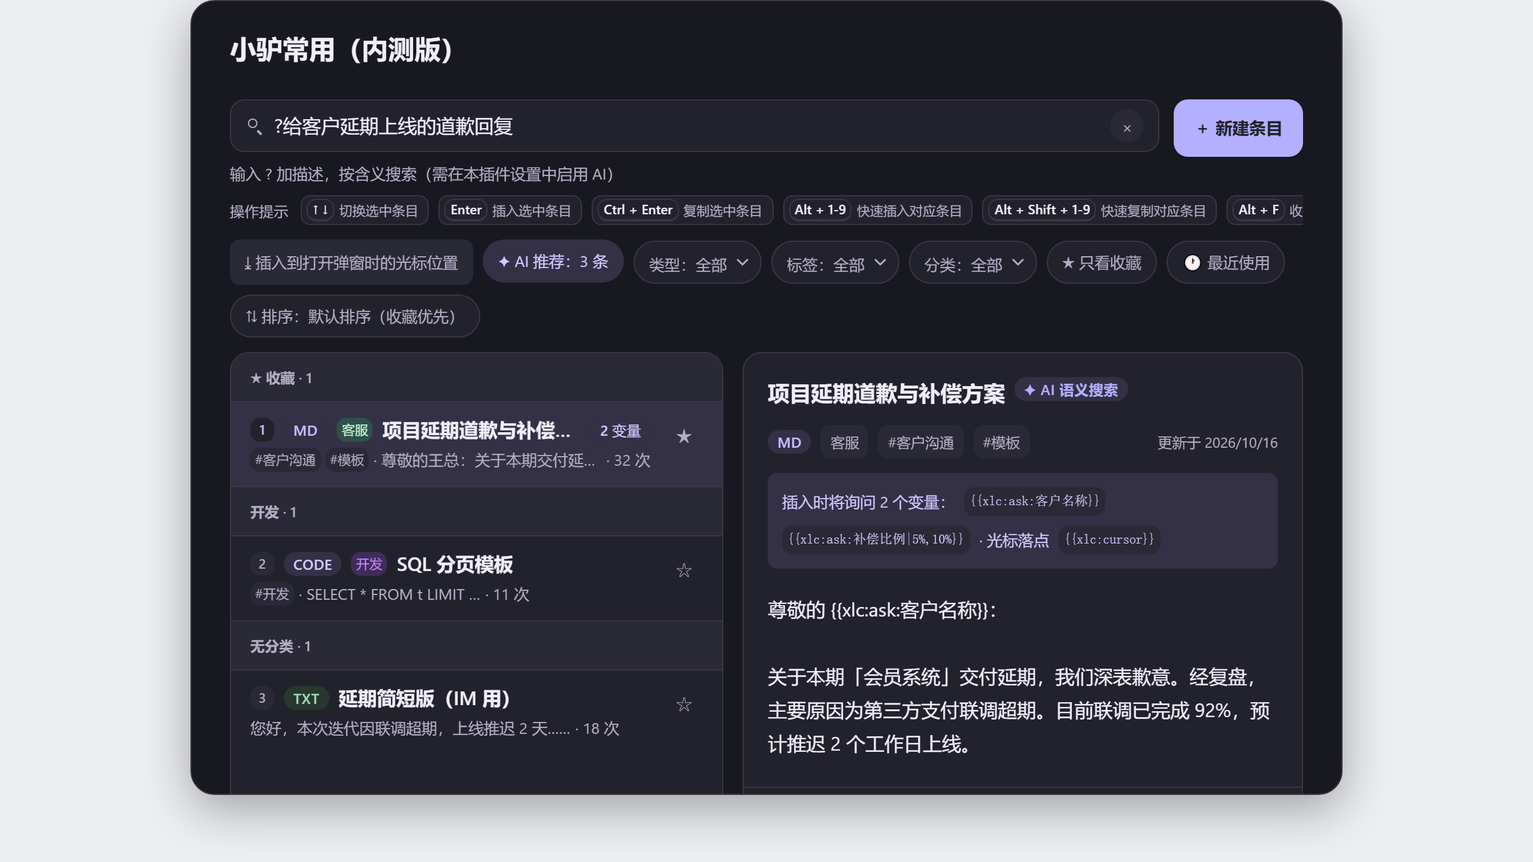
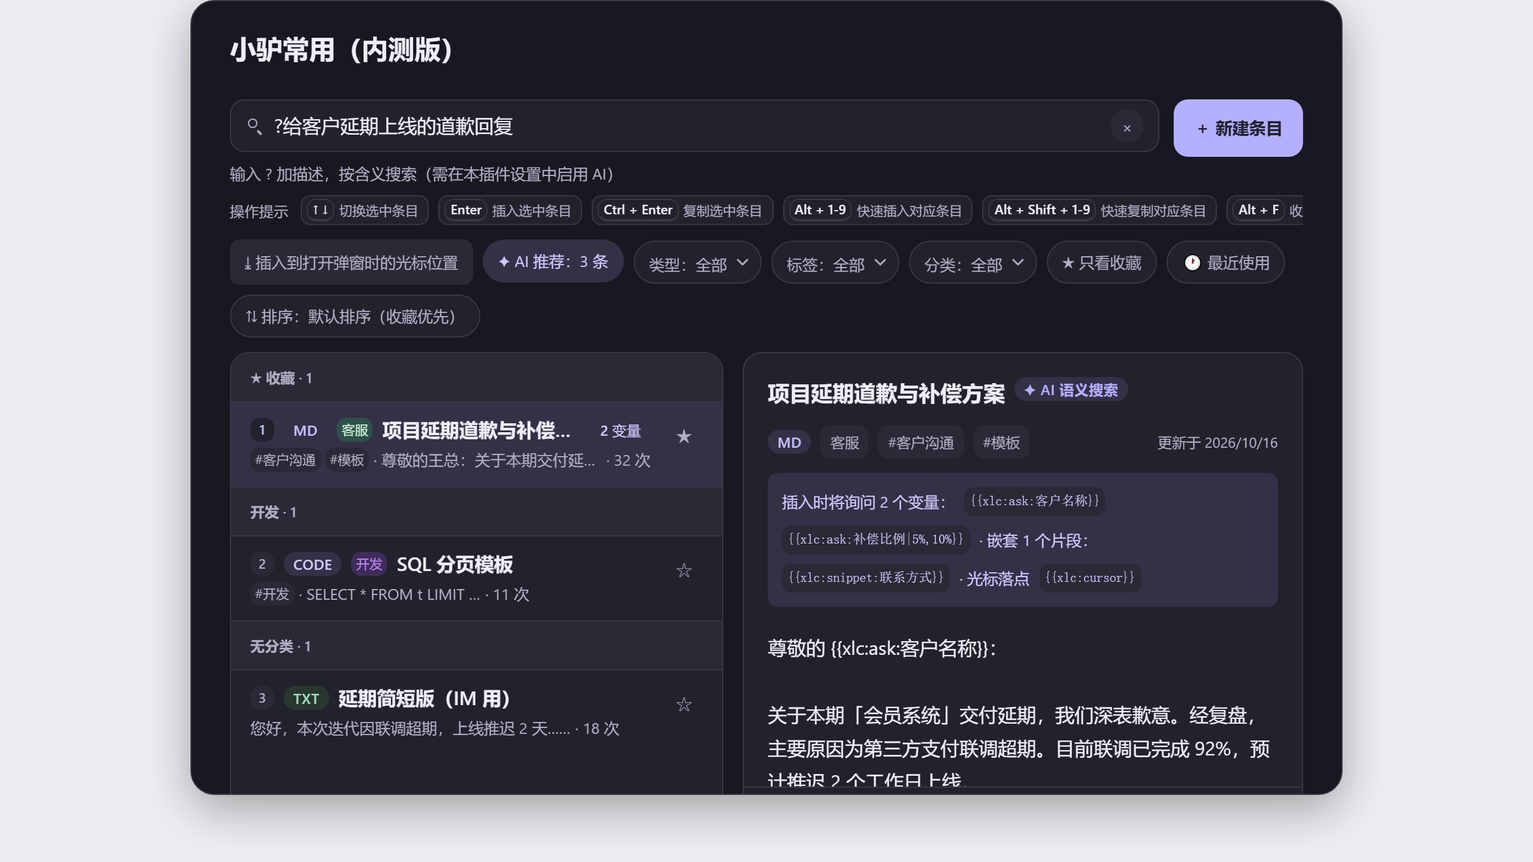
feat(ui): render nested snippet chips in preview pane vars bar (T-0109)

Changed region(s): [[0.5, 0.5938, 0.8438, 0.9062]]

diff --git a/docs/design/harness-bundle.js b/docs/design/harness-bundle.js
@@ -3371,6 +3371,20 @@ ${exception.mark.snippet}`;
   function hasCursorToken(text) {
     return text.includes(CURSOR_TOKEN);
   }
+  function listSnippetRefs(text) {
+    var _a;
+    if (!text || !text.includes("{{xlc:snippet:")) return [];
+    const titles = [];
+    const seen = /* @__PURE__ */ new Set();
+    for (const match of text.matchAll(SNIPPET_PATTERN)) {
+      const title = ((_a = match[1]) != null ? _a : "").trim().slice(0, LIMITS.title);
+      if (!title || seen.has(title)) continue;
+      seen.add(title);
+      titles.push(title);
+      if (titles.length >= 16) break;
+    }
+    return titles;
+  }
 
   // src/ui/variable-form.ts
   var import_siyuan = __toESM(require_stub_dom());
@@ -5282,15 +5296,17 @@ ${exception.mark.snippet}`;
     schedulePreview(entry) {
       this.updatePreview(entry.id);
     }
-    /** 变量提示行：从预览文本解析 ask 字段与光标标记并列出语法 chip（code/提供方行不展示）。 */
+    /** 变量提示行：从预览文本解析 ask 字段、嵌套片段与光标标记并列出语法 chip（code/提供方行不展示）。 */
     paintPaneVars(text, itemType) {
       var _a;
       const paneVars = (_a = this.dialog) == null ? void 0 : _a.element.querySelector(".xlc-pane-vars");
       if (!paneVars) return;
       const hasCursor = Boolean(text && hasCursorToken(text));
-      const fields = itemType && itemType !== "code" && itemType !== "provider" && text ? listAskFields(text) : [];
+      const isNormalTemplate = Boolean(itemType && itemType !== "code" && itemType !== "provider" && text);
+      const fields = isNormalTemplate && text ? listAskFields(text) : [];
+      const snippets = isNormalTemplate && text ? listSnippetRefs(text) : [];
       paneVars.textContent = "";
-      if (fields.length === 0 && !hasCursor) {
+      if (fields.length === 0 && snippets.length === 0 && !hasCursor) {
         paneVars.style.display = "none";
         return;
       }
@@ -5298,15 +5314,27 @@ ${exception.mark.snippet}`;
         const label = document.createElement("span");
         label.textContent = this.deps.t("paneVarsLabel", String(fields.length));
         paneVars.appendChild(label);
+        for (const field of fields) {
+          const chip = document.createElement("code");
+          chip.textContent = askFieldTag(field);
+          paneVars.appendChild(chip);
+        }
       }
-      for (const field of fields) {
-        const chip = document.createElement("code");
-        chip.textContent = askFieldTag(field);
-        paneVars.appendChild(chip);
+      if (false) {
+        const sep = fields.length > 0 ? " \xB7 " : "";
+        const label = document.createElement("span");
+        label.textContent = sep + this.deps.t("paneSnippetsLabel", String(snippets.length));
+        paneVars.appendChild(label);
+        for (const snippetTitle of snippets) {
+          const chip = document.createElement("code");
+          chip.dataset.xlcControl = "preview.snippet-tag";
+          chip.textContent = `{{xlc:snippet:${snippetTitle}}}`;
+          paneVars.appendChild(chip);
+        }
       }
       if (hasCursor) {
         const sep = document.createElement("span");
-        sep.textContent = (fields.length > 0 ? "\xB7 " : "") + this.deps.t("cursorHint");
+        sep.textContent = (fields.length > 0 || snippets.length > 0 ? " \xB7 " : "") + this.deps.t("cursorHint");
         paneVars.appendChild(sep);
         const chip = document.createElement("code");
         chip.textContent = "{{xlc:cursor}}";
@@ -13972,6 +14000,7 @@ ${details.join("\n")}` : ""}`;
     "sortHint.frequent": "\u5148\u6309\u4F7F\u7528\u6B21\u6570\u6392\u5217\uFF0C\u6B21\u6570\u76F8\u540C\u518D\u6309\u6700\u8FD1\u4F7F\u7528\uFF1B\u641C\u7D22\u65F6\u4E5F\u9075\u5FAA\u6B64\u987A\u5E8F",
     varCountBadge: "%s \u53D8\u91CF",
     paneVarsLabel: "\u63D2\u5165\u65F6\u5C06\u8BE2\u95EE %s \u4E2A\u53D8\u91CF\uFF1A",
+    paneSnippetsLabel: "\u5D4C\u5957 %s \u4E2A\u7247\u6BB5\uFF1A",
     insertVariable: "\u63D2\u5165\u53D8\u91CF\uFF1A",
     varFormTitle: "\u586B\u5199\u53D8\u91CF",
     varFormSub: "\u672C\u6761\u76EE\u542B %s \u4E2A\u53D8\u91CF\uFF0C\u586B\u5199\u540E\u4E00\u6B21\u6027\u63D2\u5165\uFF1B\u586B\u5199\u503C\u4EC5\u7528\u4E8E\u672C\u6B21\uFF0C\u4E0D\u56DE\u5199\u5E93\u3002",
@@ -14276,7 +14305,7 @@ ${details.join("\n")}` : ""}`;
     { id: "xlc-demo0000005", blockId: "20240101120000-fffffff", libraryDocId: "20240101120001-hijklmn", itemType: "url", title: "SLA \u8D54\u4ED8\u6807\u51C6\u6587\u6863", alias: "", tags: [], category: "", summary: "https://wiki.example.com/sla", createdAt: 1, updatedAt: Date.now() - 1 * 864e5, url: "https://wiki.example.com/sla" }
   ];
   var PREVIEWS = {
-    "xlc-demo0000001": "\u5C0A\u656C\u7684 {{xlc:ask:\u5BA2\u6237\u540D\u79F0}}\uFF1A\n\n\u5173\u4E8E\u672C\u671F\u300C\u4F1A\u5458\u7CFB\u7EDF\u300D\u4EA4\u4ED8\u5EF6\u671F\uFF0C\u6211\u4EEC\u6DF1\u8868\u6B49\u610F\u3002\u7ECF\u590D\u76D8\uFF0C\u4E3B\u8981\u539F\u56E0\u4E3A\u7B2C\u4E09\u65B9\u652F\u4ED8\u8054\u8C03\u8D85\u671F\u3002\u76EE\u524D\u8054\u8C03\u5DF2\u5B8C\u6210 92%\uFF0C\u9884\u8BA1\u63A8\u8FDF 2 \u4E2A\u5DE5\u4F5C\u65E5\u4E0A\u7EBF\u3002\n\n\u4E3A\u5F25\u8865\u5F71\u54CD\uFF0C\u6211\u4EEC\u63D0\u4F9B\u4EE5\u4E0B\u8865\u507F\uFF1A\n1. \u672C\u671F\u670D\u52A1\u8D39\u51CF\u514D {{xlc:ask:\u8865\u507F\u6BD4\u4F8B|5%,10%}}\uFF1B\n2. \u4E0A\u7EBF\u540E 48 \u5C0F\u65F6\u4E13\u5C5E\u503C\u5B88\uFF1B\n3. \u4E0B\u671F\u8FED\u4EE3\u4F18\u5148\u6392\u5165\u8D35\u65B9\u9700\u6C42\u3002\n\n\u518D\u6B21\u611F\u8C22\u7406\u89E3\u4E0E\u652F\u6301\uFF0C\u6709\u4EFB\u4F55\u95EE\u9898\u968F\u65F6\u8054\u7CFB\u6211\u3002{{xlc:cursor}}",
+    "xlc-demo0000001": "\u5C0A\u656C\u7684 {{xlc:ask:\u5BA2\u6237\u540D\u79F0}}\uFF1A\n\n\u5173\u4E8E\u672C\u671F\u300C\u4F1A\u5458\u7CFB\u7EDF\u300D\u4EA4\u4ED8\u5EF6\u671F\uFF0C\u6211\u4EEC\u6DF1\u8868\u6B49\u610F\u3002\u7ECF\u590D\u76D8\uFF0C\u4E3B\u8981\u539F\u56E0\u4E3A\u7B2C\u4E09\u65B9\u652F\u4ED8\u8054\u8C03\u8D85\u671F\u3002\u76EE\u524D\u8054\u8C03\u5DF2\u5B8C\u6210 92%\uFF0C\u9884\u8BA1\u63A8\u8FDF 2 \u4E2A\u5DE5\u4F5C\u65E5\u4E0A\u7EBF\u3002\n\n\u4E3A\u5F25\u8865\u5F71\u54CD\uFF0C\u6211\u4EEC\u63D0\u4F9B\u4EE5\u4E0B\u8865\u507F\uFF1A\n1. \u672C\u671F\u670D\u52A1\u8D39\u51CF\u514D {{xlc:ask:\u8865\u507F\u6BD4\u4F8B|5%,10%}}\uFF1B\n2. \u4E0A\u7EBF\u540E 48 \u5C0F\u65F6\u4E13\u5C5E\u503C\u5B88\uFF1B\n3. \u4E0B\u671F\u8FED\u4EE3\u4F18\u5148\u6392\u5165\u8D35\u65B9\u9700\u6C42\u3002\n\n\u518D\u6B21\u611F\u8C22\u7406\u89E3\u4E0E\u652F\u6301\uFF0C\u6709\u4EFB\u4F55\u95EE\u9898\u968F\u65F6\u8054\u7CFB\u6211\u3002{{xlc:cursor}}\n\n{{xlc:snippet:\u8054\u7CFB\u65B9\u5F0F}}",
     "xlc-demo0000002": "\u60A8\u597D\uFF0C\u672C\u6B21\u8FED\u4EE3\u56E0\u8054\u8C03\u8D85\u671F\uFF0C\u4E0A\u7EBF\u63A8\u8FDF 2 \u5929\u3002\u7ED9\u60A8\u5E26\u6765\u4E0D\u4FBF\u6DF1\u8868\u6B49\u610F\uFF0C\u6709\u95EE\u9898\u968F\u65F6\u627E\u6211\u3002",
     "xlc-demo0000003": "```sql\nSELECT * FROM articles\nWHERE status = 'published'\nORDER BY updated_at DESC\nLIMIT 20 OFFSET 40;\n```",
     "xlc-demo0000004": "\uFF08\u5F15\u7528\u8BED\u6CD5\u9884\u89C8\uFF09((20240101120002-bbbbbbb '\u4EA7\u54C1\u9700\u6C42\u6A21\u677F'))",
@@ -14319,6 +14348,7 @@ ${details.join("\n")}` : ""}`;
       setupIndependentOrphanWarning: "\u6CE8\u610F\uFF1A\u7B14\u8BB0\u672C\u5DF2\u521B\u5EFA\u4F46\u672A\u6210\u529F\u6E05\u7406\uFF08ID\uFF1A%s\uFF09\u3002\u8BF7\u5728\u601D\u6E90\u5DE6\u4FA7\u7B14\u8BB0\u672C\u5217\u8868\u624B\u52A8\u786E\u8BA4\u6216\u5220\u9664\u3002",
       setupIndependentCopyOrphanId: "\u590D\u5236\u7B14\u8BB0\u672C ID",
       setupIndependentOrphanCopied: "\u5DF2\u590D\u5236\u7B14\u8BB0\u672C ID",
+      paneSnippetsLabel: "\u5D4C\u5957 %s \u4E2A\u7247\u6BB5\uFF1A",
       settingsIntro: "\u7BA1\u7406\u5185\u5BB9\u5E93\u3001\u590D\u7528\u504F\u597D\u548C\u6570\u636E\u3002\u5E93\u5185\u5185\u5BB9\u4F1A\u4FDD\u7559\u5728\u601D\u6E90\u6587\u6863\u4E2D\uFF0C\u5E76\u53EF\u7EE7\u7EED\u7F16\u8F91\u3002",
       captureIntro: "\u5148\u653E\u5165\u60F3\u8981\u590D\u7528\u7684\u5185\u5BB9\uFF0C\u518D\u8865\u5145\u6807\u9898\u548C\u5206\u7C7B\uFF0C\u4E4B\u540E\u53EF\u4EE5\u66F4\u5FEB\u627E\u5230\u5B83\u3002",
       discoveryTitle: "\u4ECE\u5F53\u524D\u6587\u6863\u53D1\u73B0",

diff --git a/src/ui/dialog.ts b/src/ui/dialog.ts
@@ -12,7 +12,7 @@ import {SearchEntry, SearchQuery} from "../model/search";
 import {InsertMode} from "../model/actions";
 import {TransformKind} from "../service/ai";
 import {ProviderRow} from "../model/provider-section";
-import {AskField, askFieldTag, hasCursorToken, listAskFields} from "../model/variables";
+import {AskField, askFieldTag, hasCursorToken, listAskFields, listSnippetRefs} from "../model/variables";
 import {openVariableFillCard} from "./variable-form";
 import {formatScopeFallbackQuery, shouldShowScopeFallback} from "./empty-state";
 import {findPinyinMatches} from "../model/pinyin-tiny";
@@ -1759,16 +1759,16 @@ export class CommonSearchDialog {
         this.updatePreview(entry.id);
     }
 
-    /** 变量提示行：从预览文本解析 ask 字段与光标标记并列出语法 chip（code/提供方行不展示）。 */
+    /** 变量提示行：从预览文本解析 ask 字段、嵌套片段与光标标记并列出语法 chip（code/提供方行不展示）。 */
     private paintPaneVars(text: string | null, itemType: ItemType | "provider" | undefined): void {
         const paneVars = this.dialog?.element.querySelector<HTMLElement>(".xlc-pane-vars");
         if (!paneVars) return;
         const hasCursor = Boolean(text && hasCursorToken(text));
-        const fields = itemType && itemType !== "code" && itemType !== "provider" && text
-            ? listAskFields(text)
-            : [];
+        const isNormalTemplate = Boolean(itemType && itemType !== "code" && itemType !== "provider" && text);
+        const fields = isNormalTemplate && text ? listAskFields(text) : [];
+        const snippets = isNormalTemplate && text ? listSnippetRefs(text) : [];
         paneVars.textContent = "";
-        if (fields.length === 0 && !hasCursor) {
+        if (fields.length === 0 && snippets.length === 0 && !hasCursor) {
             paneVars.style.display = "none";
             return;
         }
@@ -1776,16 +1776,28 @@ export class CommonSearchDialog {
             const label = document.createElement("span");
             label.textContent = this.deps.t("paneVarsLabel", String(fields.length));
             paneVars.appendChild(label);
+            for (const field of fields) {
+                const chip = document.createElement("code");
+                chip.textContent = askFieldTag(field);
+                paneVars.appendChild(chip);
+            }
         }
-        for (const field of fields) {
-            const chip = document.createElement("code");
-            chip.textContent = askFieldTag(field);
-            paneVars.appendChild(chip);
+        if (snippets.length > 0) {
+            const sep = fields.length > 0 ? " · " : "";
+            const label = document.createElement("span");
+            label.textContent = sep + this.deps.t("paneSnippetsLabel", String(snippets.length));
+            paneVars.appendChild(label);
+            for (const snippetTitle of snippets) {
+                const chip = document.createElement("code");
+                chip.dataset.xlcControl = "preview.snippet-tag";
+                chip.textContent = `{{xlc:snippet:${snippetTitle}}}`;
+                paneVars.appendChild(chip);
+            }
         }
         // 光标落点提示（原型屏 1：内容含 {{xlc:cursor}} 时附带说明）
         if (hasCursor) {
             const sep = document.createElement("span");
-            sep.textContent = (fields.length > 0 ? "· " : "") + this.deps.t("cursorHint");
+            sep.textContent = (fields.length > 0 || snippets.length > 0 ? " · " : "") + this.deps.t("cursorHint");
             paneVars.appendChild(sep);
             const chip = document.createElement("code");
             chip.textContent = "{{xlc:cursor}}";

diff --git a/scripts/harness/entry.ts b/scripts/harness/entry.ts
@@ -22,7 +22,7 @@ const ENTRIES: SearchEntry[] = [
 ];
 
 const PREVIEWS: Record<string, string> = {
-    "xlc-demo0000001": "尊敬的 {{xlc:ask:客户名称}}：\n\n关于本期「会员系统」交付延期，我们深表歉意。经复盘，主要原因为第三方支付联调超期。目前联调已完成 92%，预计推迟 2 个工作日上线。\n\n为弥补影响，我们提供以下补偿：\n1. 本期服务费减免 {{xlc:ask:补偿比例|5%,10%}}；\n2. 上线后 48 小时专属值守；\n3. 下期迭代优先排入贵方需求。\n\n再次感谢理解与支持，有任何问题随时联系我。{{xlc:cursor}}",
+    "xlc-demo0000001": "尊敬的 {{xlc:ask:客户名称}}：\n\n关于本期「会员系统」交付延期，我们深表歉意。经复盘，主要原因为第三方支付联调超期。目前联调已完成 92%，预计推迟 2 个工作日上线。\n\n为弥补影响，我们提供以下补偿：\n1. 本期服务费减免 {{xlc:ask:补偿比例|5%,10%}}；\n2. 上线后 48 小时专属值守；\n3. 下期迭代优先排入贵方需求。\n\n再次感谢理解与支持，有任何问题随时联系我。{{xlc:cursor}}\n\n{{xlc:snippet:联系方式}}",
     "xlc-demo0000002": "您好，本次迭代因联调超期，上线推迟 2 天。给您带来不便深表歉意，有问题随时找我。",
     "xlc-demo0000003": "```sql\nSELECT * FROM articles\nWHERE status = 'published'\nORDER BY updated_at DESC\nLIMIT 20 OFFSET 40;\n```",
     "xlc-demo0000004": "（引用语法预览）((20240101120002-bbbbbbb '产品需求模板'))",
@@ -58,6 +58,7 @@ const T = (key: string, ...args: string[]): string => {
         pluginName: "小驴常用（内测版）",
         setupCreateIndependentNotebook: "新建独立笔记本与库文档", setupIndependentNotebookName: "新笔记本名称", setupIndependentNotebookNamePlaceholder: "例如：工作常用语", setupIndependentNotebookHint: "会先新建一个笔记本，再在其中创建库文档；两步都成功后才保存配置。", setupIndependentConfirmCreate: "将新建笔记本「%s」和库文档「%s」，确定吗？", setupIndependentCreateFailed: "创建独立笔记本失败：%s",
         setupIndependentStepNotebook: "第 1/2 步：正在新建笔记本…", setupIndependentStepDoc: "第 2/2 步：正在新建库文档…", setupIndependentStepRollback: "正在回滚清理未完成的笔记本…", setupIndependentOrphanWarning: "注意：笔记本已创建但未成功清理（ID：%s）。请在思源左侧笔记本列表手动确认或删除。", setupIndependentCopyOrphanId: "复制笔记本 ID", setupIndependentOrphanCopied: "已复制笔记本 ID",
+        paneSnippetsLabel: "嵌套 %s 个片段：",
         settingsIntro: "管理内容库、复用偏好和数据。库内内容会保留在思源文档中，并可继续编辑。",
         captureIntro: "先放入想要复用的内容，再补充标题和分类，之后可以更快找到它。",
         discoveryTitle: "从当前文档发现", discoveryTitleNotebook: "从当前笔记本发现", discoveryTitleGeneral: "发现已有内容", discoveryTitleTree: "从此文档发现常用语",

diff --git a/ROADMAP.md b/ROADMAP.md
@@ -4,7 +4,7 @@
 
 > 定位：**思源笔记的内容资产层**——高频内容是有元数据、有来源、可检索、可变通、可共享的真实块资产（v3，2026-10-07 调研后修订）。三大一级场景：客服/邮件模板、AI 提示词库、研发/写作常用件。
 > 精准定位与调研证据：[docs/positioning.md](docs/positioning.md)。UI 唯一视觉事实源：[docs/design/prototype.html](docs/design/prototype.html)（v4 实现镜像）+ [docs/design/design-spec.md](docs/design/design-spec.md)；组件清单：[docs/ui-component-catalog.md](docs/ui-component-catalog.md)。生产证据：docs/design/production-*.png。
-> 状态：**[v0.4.2 已在 GitHub 发布](https://github.com/ai68298100/xiaolv-common/releases/tag/v0.4.2)（2026-10-16）**。T-0059–T-0084 的搜索/快捷工作流、标签引用和保存视图、编辑器目标修复及验收工具加固均已包含；本地 T-0086–T-0108 追加了导出保护、示例调研、写前保守限制、捕获入口/恢复保护、常用内容示例包、独立笔记本设置接线、本机使用统计摘要、导入异常回执加固、共享异常文本转换重构、异常处理源码门禁、独立笔记本两步进度/补偿凭据、B-006 单行结构标记写前防御/围栏空白清洗、Espanso 导入类型推断/URL 对齐、G4 搜索时间范围筛选模型、捕获查重排除自身/全角空白归一化、F5 片段引用解析/语法诊断工具、S1 变量填充卡默认值与预填支持以及拼音前缀多音节平滑高亮，尚未发布；R237 的 parts 完整清单假设已撤回，现仅允许单行/完整代码围栏写入，多 parts 更新及自动删除暂停。当前本地门禁单元 536/536、Chrome UI smoke、交互 74/74、构建/密钥/包检查通过；真实宿主边界仍按 B-001–B-006 分层。**Electron 临时 renderer 已有局部功能观测，镜像整体隔离声明已撤回**；Android、真实 AI、连续嵌入后选区、B-004、B-005 和 B-006 真实多块验收继续开放，后续宿主实验停止。发布说明保留这些边界，集市未获推送授权。当前状态：[docs/status-audit-2026-10-18.md](docs/status-audit-2026-10-18.md)；当期账本：[docs/dev-plan-2026-10-06.md](docs/dev-plan-2026-10-06.md)。
+> 状态：**[v0.4.2 已在 GitHub 发布](https://github.com/ai68298100/xiaolv-common/releases/tag/v0.4.2)（2026-10-16）**。T-0059–T-0084 的搜索/快捷工作流、标签引用和保存视图、编辑器目标修复及验收工具加固均已包含；本地 T-0086–T-0109 追加了导出保护、示例调研、写前保守限制、捕获入口/恢复保护、常用内容示例包、独立笔记本设置接线、本机使用统计摘要、导入异常回执加固、共享异常文本转换重构、异常处理源码门禁、独立笔记本两步进度/补偿凭据、B-006 单行结构标记写前防御/围栏空白清洗、Espanso 导入类型推断/URL 对齐、G4 搜索时间范围筛选模型、捕获查重排除自身/全角空白归一化、F5 片段引用解析/语法诊断工具、S1 变量填充卡默认值与预填支持、拼音前缀多音节平滑高亮以及预览窗格嵌套片段语法芯片可视化，尚未发布；R237 的 parts 完整清单假设已撤回，现仅允许单行/完整代码围栏写入，多 parts 更新及自动删除暂停。当前本地门禁单元 536/536、Chrome UI smoke、交互 74/74、构建/密钥/包检查通过；真实宿主边界仍按 B-001–B-006 分层。**Electron 临时 renderer 已有局部功能观测，镜像整体隔离声明已撤回**；Android、真实 AI、连续嵌入后选区、B-004、B-005 和 B-006 真实多块验收继续开放，后续宿主实验停止。发布说明保留这些边界，集市未获推送授权。当前状态：[docs/status-audit-2026-10-18.md](docs/status-audit-2026-10-18.md)；当期账本：[docs/dev-plan-2026-10-06.md](docs/dev-plan-2026-10-06.md)。
 
 ## R2：AI 融入与原型质感（2026-10-06，用户指令立项）
 
@@ -720,6 +720,12 @@
 - [x] 重构全拼音节定位算法：支持连续音节末字前缀拼音平滑匹配（`item.py.startsWith(remainingToken)`）与单字前缀匹配，消除打词输入中标题高亮闪断（闪烁）。
 - [x] 单字母规则隔离：单字母仅走首字母匹配，不触发单字前缀匹配，避免高亮泛滥。
 - [x] 新增 `tests/r212-pinyin-highlighting.test.cjs` 专项断言（单元门禁 536/536 全部通过），并通过故意跳过末字前缀匹配的严格负向验证。
+
+## T-0109 / R256（2026-10-19 预览窗格嵌套片段语法回显与可视化）
+
+- [x] `src/ui/dialog.ts` 的 `paintPaneVars` 接入 `listSnippetRefs`，提取并渲染嵌套片段说明与 `preview.snippet-tag` 代码芯片。
+- [x] 增补中英国际化资源 `paneSnippetsLabel`，保持与变量芯片、光标提示的优雅隔点分隔，纯文本安全防注入。
+- [x] 扩展 `scripts/render-production.cjs` 桌面冒烟断言（20/20），并通过故意跳过片段芯片渲染的严格双向负向验证。
 
 ## T-0086–T-0092 / R233–R239（2026-10-18 审计、示例调研与多块保护）
 

diff --git a/docs/dev-plan-2026-10-18-r256.md b/docs/dev-plan-2026-10-18-r256.md
@@ -1,0 +1,42 @@
+# T-0109 / R256：预览窗格嵌套片段语法回显与可视化
+
+日期：2026-10-19
+
+## 目标
+
+闭环 F5 片段嵌套（S4）在桌面与移动端主搜索面板右栏预览窗格（`paintPaneVars`）上的语法回显与可视化展示：
+1. 此前预览面板仅解析并展示 `{{xlc:ask:…}}` 字段芯片与 `{{xlc:cursor}}` 光标标记，条目正文若引用了子片段（`{{xlc:snippet:标题}}`）在右栏元数据行完全隐蔽；
+2. 接入 T-0106 封装的 `listSnippetRefs` 纯函数，自动提取非代码正文中的嵌套片段标题；
+3. 在 `.xlc-pane-vars` 中展示 `paneSnippetsLabel`（`嵌套 %s 个片段：`）并为每个片段标题生成带有稳定标识 `data-xlc-control="preview.snippet-tag"` 的代码芯片；
+4. 增补中英国际化资源并在 harness 中对齐；
+5. 保证纯文本安全：所有标题芯片一律走 `textContent`，绝不注入 HTML。
+
+## 实现
+
+- `src/i18n/zh-CN.json` & `src/i18n/en.json`：
+  - 增补中英对称键：`"paneSnippetsLabel": "嵌套 %s 个片段："` / `"paneSnippetsLabel": "Includes %s snippets:"`。
+- `scripts/harness/entry.ts`：
+  - 同步更新本地化字典 `paneSnippetsLabel`，并在首个示例正文中增加片段嵌套引用 `\n\n{{xlc:snippet:联系方式}}`。
+- `src/ui/dialog.ts`：
+  - 从 `../model/variables` 导入 `listSnippetRefs`；
+  - `paintPaneVars` 接入片段引用提取与标签/代码芯片渲染，保持与变量芯片、光标提示的优雅隔点 ` · ` 分隔。
+- `scripts/render-production.cjs`：
+  - 在 `desktop-light` 冒烟断言中增加 `paneVarsSnippet` 与 `paneSnippetTag` 两项断言（断言数由 18 增至 20）。
+
+## 验证
+
+- `node scripts/render-production.cjs`：
+  - `desktop-light: 20 assertions` 成功通过；
+  - **负向验证**：在 `paintPaneVars` 中故意注释掉 `if (snippets.length > 0)` 渲染分支，运行测试确认 `desktop-light` 精准以退出码 1 失败并指出 `UI smoke FAILED on desktop-light: paneVarsSnippet, paneSnippetTag`，恢复源码后复验全绿。
+- `node tests/run-tests.cjs`：
+  - 单元测试门禁 536/536 全部通过。
+- 全门禁通过：
+  - `npm run check:errors`（零不安全 thrown value 读取）
+  - `npm run check`（tsc --noEmit 零类型错误）
+  - `npm test`（536/536 全部通过）
+  - `npm run scan`（零敏感字面量）
+  - `npm run check:package`（13 项必需资源完备、根相对结构合规）
+
+## 状态与边界
+
+嵌套片段回显仅在详情元数据提示区呈现语法芯片与数量，实际插入时仍由 `library.expandSnippetRefs` 执行递归展开与环保护；代码条目（`itemType === "code"`）与外部提供方行保持字面隔离不展示。

diff --git a/docs/dev-plan-2026-10-06.md b/docs/dev-plan-2026-10-06.md
@@ -2562,3 +2562,11 @@ LEDGER_EOF
 - **验证**：新增 `tests/r212-pinyin-highlighting.test.cjs` 专项断言（单元门禁 `536/536` 全部通过）；负向注入故意跳过末字前缀拼音平滑分支，测试精准失败后恢复；生产 UI 冒烟测试全部通过。
 - **门禁**：`check:errors`、`check`、单元 `536/536`、`test:ui`、密钥扫描与包检查全部通过。
 - **状态**：拼音打词过程中的高亮平滑度与视觉连续性显著提升，消除多音节词输入中断裂闪烁感。
+
+## T-0109 / R256（2026-10-19 预览窗格嵌套片段语法回显与可视化）
+
+- **目标**：闭环 F5 片段嵌套（S4）在桌面与移动端主搜索面板右栏预览窗格（`paintPaneVars`）上的语法回显与可视化展示。
+- **实现**：`src/ui/dialog.ts` 的 `paintPaneVars` 接入 `listSnippetRefs`，提取并渲染嵌套片段说明与 `preview.snippet-tag` 代码芯片；增补中英国际化资源 `paneSnippetsLabel`，保持与变量芯片、光标提示的优雅隔点分隔，纯文本安全防注入。
+- **验证**：扩展 `scripts/render-production.cjs` 桌面冒烟断言（20/20）；负向注入故意跳过片段芯片渲染，测试精准失败并指出 `UI smoke FAILED on desktop-light: paneVarsSnippet, paneSnippetTag`，恢复源码后复验全绿；全量单元测试 `536/536` 全部通过。
+- **门禁**：`check:errors`、`check`、单元 `536/536`、`test:ui`、密钥扫描与包检查全部通过。
+- **状态**：片段嵌套语法在详情元数据提示区拥有清晰的视觉回显，条目模板结构一目了然。
